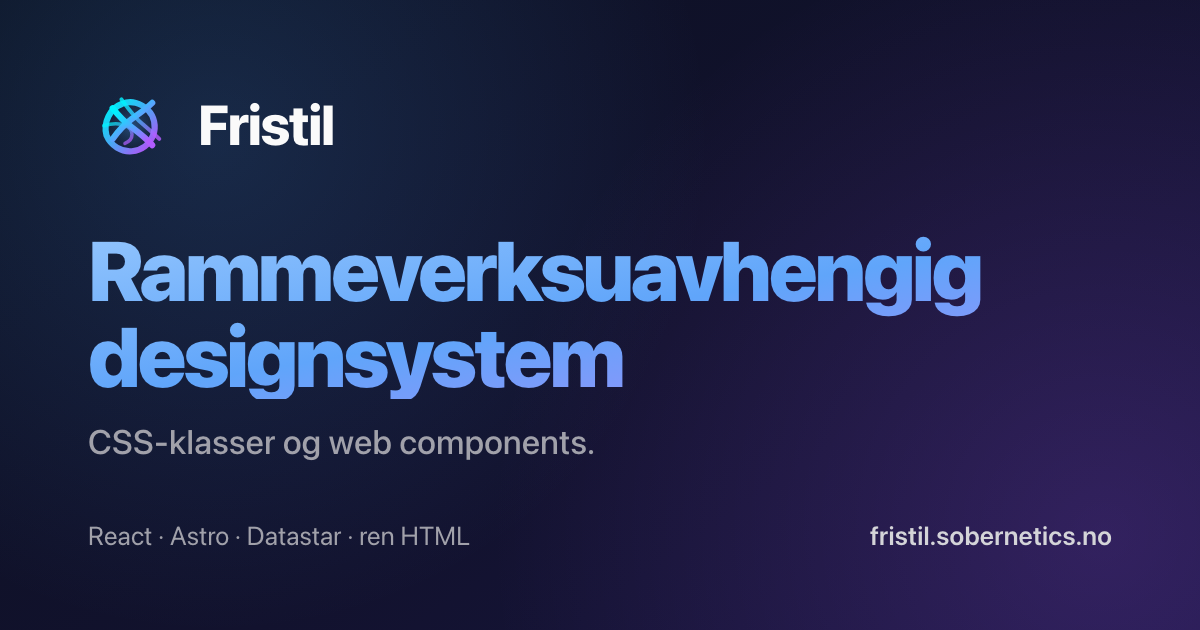
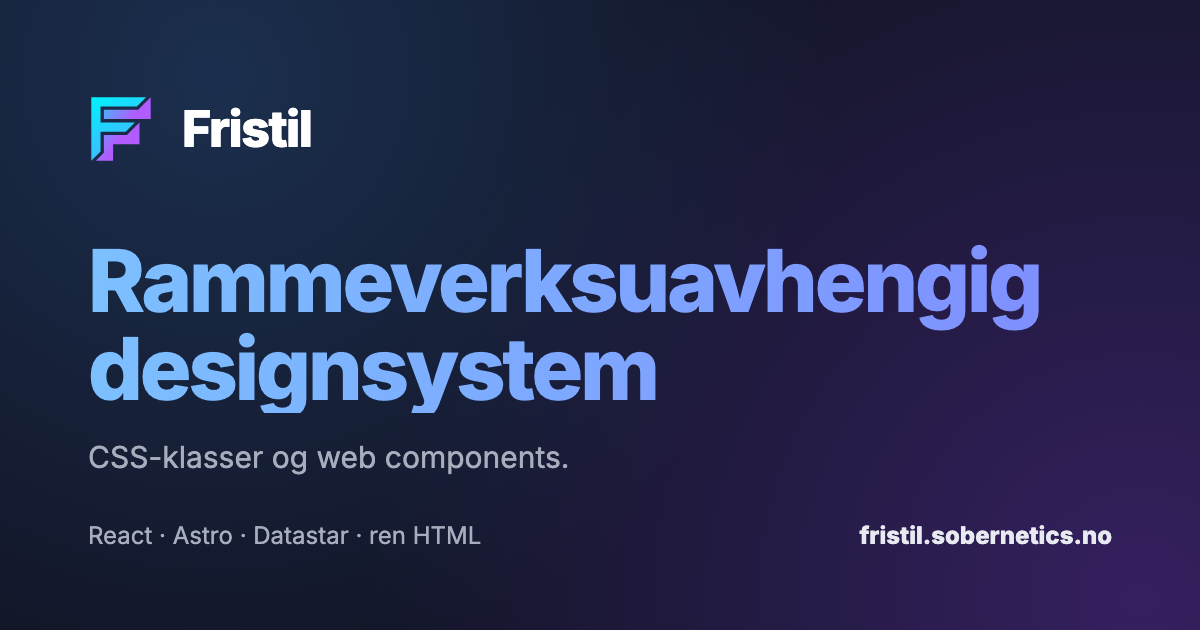
Nytt merke: en F i to lag
Den gamle logoen var en ujevn ring med kryssende streker. Det nye merket er
en F i to lag, cyan og lilla, som ligger inntil hverandre uten å overlappe,
slik markup og oppførsel gjør. Fargene er de samme tre som før.

- FristilLogo.astro, favicon.svg og IntelliJ-ikonet tegner det nye merket
- editor/ikon.png og public/og.png er tegnet på nytt med det

diff --git a/editor/CHANGELOG.md b/editor/CHANGELOG.md
@@ -3,6 +3,10 @@
 Utvidelsen har sitt eget versjonsnummer. Den følger ikke pakken, siden den
 bare endrer seg når et element eller et attributt gjør det.
 
+## Ikke utgitt
+
+- Nytt ikon: det nye Fristil-merket, en F i to lag.
+
 ## 0.7.0
 
 I takt med pakkens 0.28.0.
